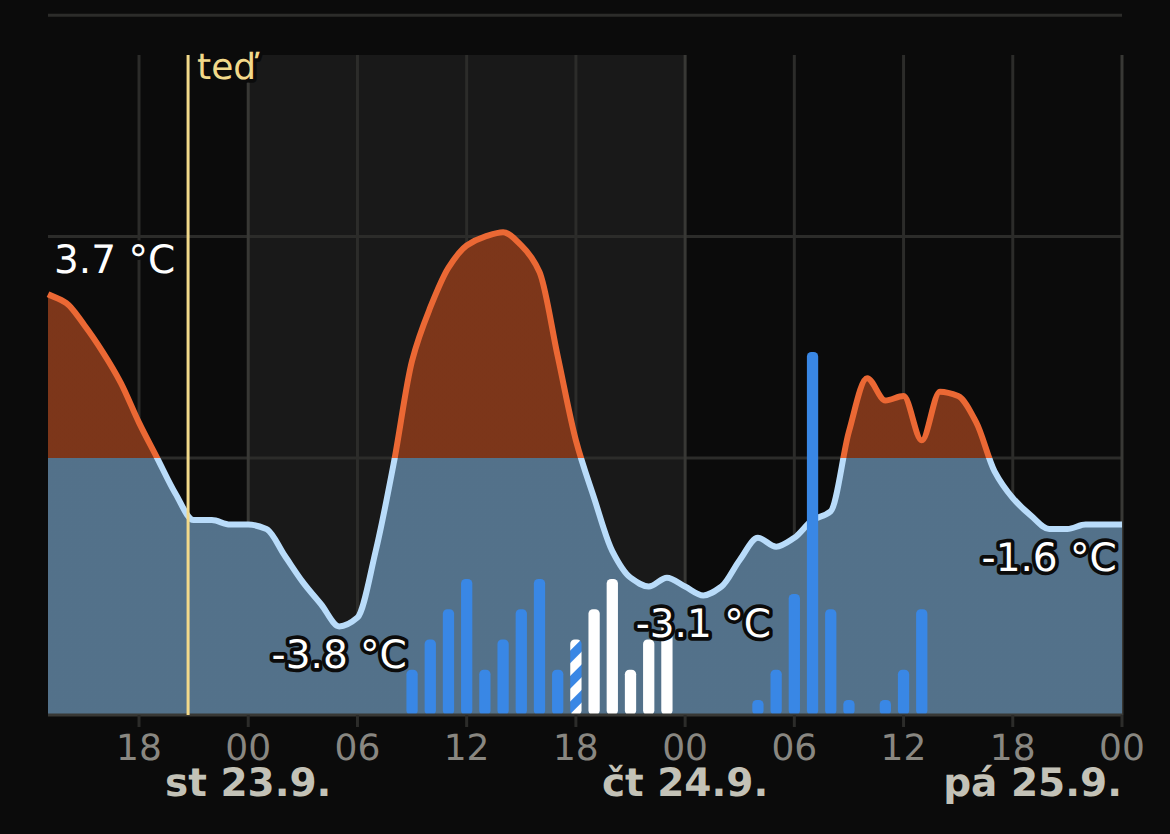
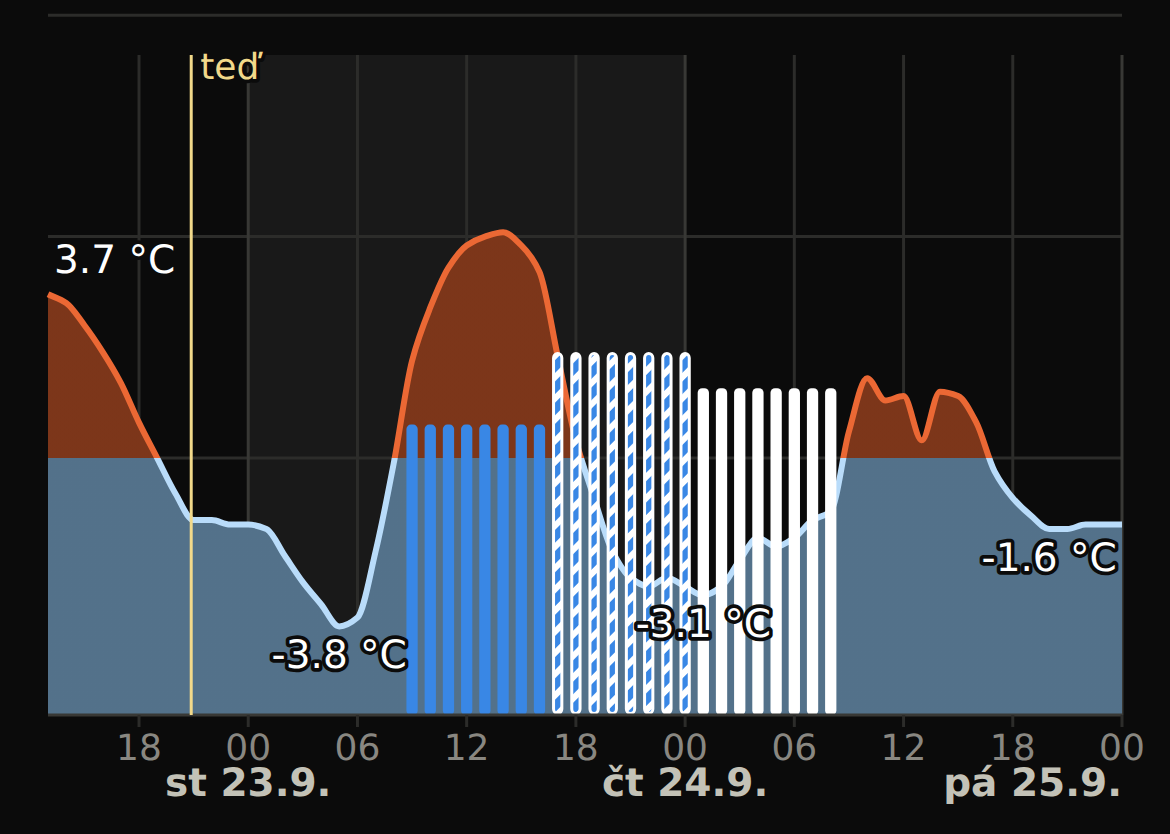
Frame the striped column and narrow its white bands
Three pixels of rain to two of snow instead of an even three and three, and a
thin white frame around the column, drawn inside it so that the column keeps
the footprint the plain ones have.

Claude-Session: https://claude.ai/code/session_019XuJjksFcJnL8VGGnsy1He

Changed region(s): [[0.3385, 0.4053, 0.8, 0.8729], [0.1538, 0.0624, 0.2462, 0.8417]]

diff --git a/web/app.js b/web/app.js
@@ -39,7 +39,7 @@ const state = {
 /* Bumped together with CACHE in sw.js, and tests/test_web.py insists the two
    agree: the footer is only worth reading if the number in it is the one the
    files were shipped with. */
-const APP_VERSION = "v46";
+const APP_VERSION = "v47";
 
 const STORED_PLACE = "mys-aladin.place";
 const STORED_FOLLOW = "mys-aladin.follow";
@@ -385,19 +385,19 @@ function precipitationKind(row) {
 }
 
 /* The stripes for an hour of rain and snow together: a tile of two bands laid
-   at forty-five degrees, each about three pixels across. The tile is in user
-   space, so the stripes run on unbroken from column to column rather than
-   starting afresh in each. */
+   at forty-five degrees, three pixels of rain to two of snow. The tile is in
+   user space, so the stripes run on unbroken from column to column rather
+   than starting afresh in each. */
 function defineSleet(svg) {
   const pattern = el("pattern", {
     id: "sleet",
-    width: 6,
-    height: 6,
+    width: 5,
+    height: 5,
     patternUnits: "userSpaceOnUse",
     patternTransform: "rotate(45)",
   }, el("defs", {}, svg));
-  el("rect", { class: "sleet-rain", width: 6, height: 6 }, pattern);
-  el("rect", { class: "sleet-snow", width: 3, height: 6 }, pattern);
+  el("rect", { class: "sleet-rain", width: 5, height: 5 }, pattern);
+  el("rect", { class: "sleet-snow", width: 2, height: 5 }, pattern);
 }
 
 /* Precipitation keeps its own labelled scale on the right: sharing the
@@ -416,12 +416,17 @@ function drawRain(svg, series, x, base, right) {
     if (row.precip_mm <= 0) return;
     const h = Math.max(scale(row.precip_mm), 1.5);
     const rx = Math.min(1.5, barW / 2);
+    const kind = precipitationKind(row);
+    // The striped column is framed in white, and the frame is drawn inside
+    // the column: a stroke sits astride its path, so the rectangle gives up
+    // half its width to it on every side and the column keeps its footprint.
+    const inset = kind === "sleet-bar" ? 0.5 : 0;
     el("rect", {
-      class: precipitationKind(row),
-      x: x(i) - barW / 2,
-      y: base - h,
-      width: barW,
-      height: h,
+      class: kind,
+      x: x(i) - barW / 2 + inset,
+      y: base - h + inset,
+      width: Math.max(barW - 2 * inset, 0.5),
+      height: Math.max(h - 2 * inset, 0.5),
       rx,
     }, svg);
   });

diff --git a/web/style.css b/web/style.css
@@ -496,8 +496,10 @@ main { padding: 0 8px; }
 
 /* An hour of both is striped in the two colours rather than divided in two:
    a column three or four pixels wide has no room for a line across it, while
-   the stripes read as a mixture at any height. */
-.sleet-bar { fill: url(#sleet); }
+   the stripes read as a mixture at any height. A thin white frame around it
+   tells the mixture from the plain rain beside it even where the column is
+   too short for a stripe to show. */
+.sleet-bar { fill: url(#sleet); stroke: var(--snow); stroke-width: 1; }
 .sleet-rain { fill: var(--rain); }
 .sleet-snow { fill: var(--snow); }
 

diff --git a/web/sw.js b/web/sw.js
@@ -3,7 +3,7 @@
    forecast stays in the cache as the offline fallback. */
 "use strict";
 
-const CACHE = "mys-aladin-v46";
+const CACHE = "mys-aladin-v47";
 const FORECAST = "data/forecast.json";
 
 /* Tiles of the area pack live in their own cache, so that a few places looked

diff --git a/docs/pwa.md b/docs/pwa.md
@@ -83,7 +83,10 @@ studená je stejně zjevně průsvitná jako teplá.
 Sloupec srážek je celý modrý, celý bílý, nebo pruhovaný. Rozhoduje podíl pole
 `snow_mm` na hodinovém úhrnu: od devíti desetin výš je hodina sněhová, do
 jedné desetiny dešťová a mezi tím jde o déšť se sněhem, který se kreslí
-šikmými pruhy obou barev po třech pixelech. Desetina na každé straně patří té
+šikmými pruhy obou barev, tři pixely deště na dva sněhu, a obtáhne se tenkým
+bílým rámečkem. Rámeček je vedený dovnitř sloupce: obrys leží obkročmo na
+hraně, takže obdélník ustoupí o polovinu jeho šíře na každé straně a sloupec
+si udrží svou šířku. Desetina na každé straně patří té
 větší z obou srážek, protože stopu sněhu v hodině deště nemá smysl pruhovat
 a model ji hlásí často. Pruhy jsou výplň `pattern` v uživatelském prostoru,
 takže navazují ze sloupce do sloupce a nezačínají v každém znovu; dělící čára
